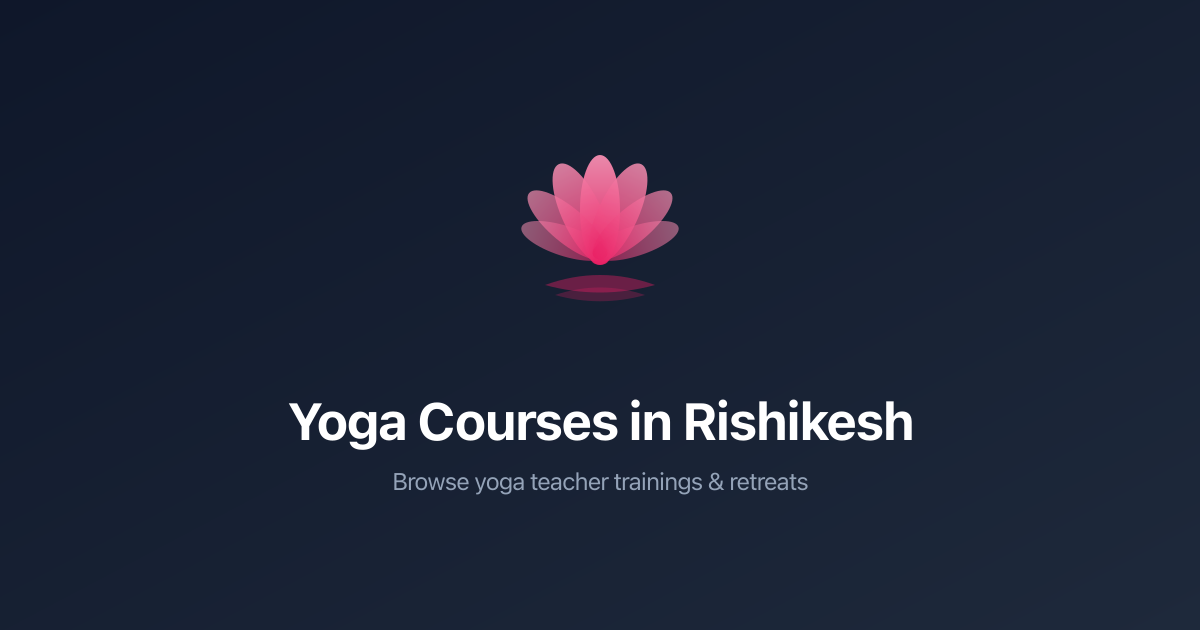
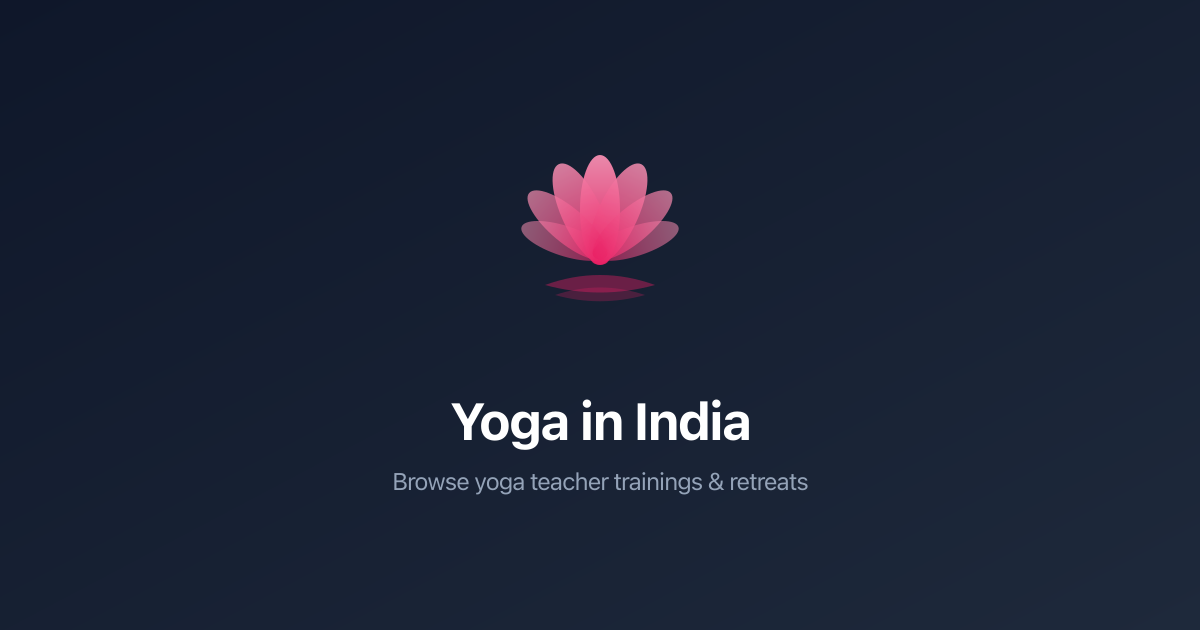
feat: add per-location social previews for Rishikesh and Dharamshala
Each location page now has its own OG title ("Yoga in Rishikesh" /
"Yoga in Dharamshala") and dedicated OG image instead of always
showing "Yoga Courses in Rishikesh".

Changed region(s): [[0.2467, 0.6333, 0.7708, 0.7238]]

diff --git a/scripts/generate-assets.ts b/scripts/generate-assets.ts
@@ -34,7 +34,7 @@ function lotusIconSvg(size: number): string {
 </svg>`
 }
 
-function ogImageSvg(): string {
+function ogImageSvg(location: string): string {
   // Embed the lotus inline at a fixed position, add title text
   return `<svg xmlns="http://www.w3.org/2000/svg" width="1200" height="630" viewBox="0 0 1200 630">
   <defs>
@@ -62,7 +62,7 @@ function ogImageSvg(): string {
     <path d="M 32 72 Q 50 66 68 72 Q 50 77 32 72 Z" fill="#E91E63" opacity="0.25"/>
   </g>
   <!-- Title text -->
-  <text x="600" y="440" text-anchor="middle" font-family="system-ui, sans-serif" font-size="52" font-weight="700" fill="white">Yoga Courses in Rishikesh</text>
+  <text x="600" y="440" text-anchor="middle" font-family="system-ui, sans-serif" font-size="52" font-weight="700" fill="white">Yoga in ${location}</text>
   <!-- Subtitle -->
   <text x="600" y="490" text-anchor="middle" font-family="system-ui, sans-serif" font-size="24" fill="#94a3b8">Browse yoga teacher trainings &amp; retreats</text>
 </svg>`
@@ -124,10 +124,20 @@ async function main() {
   writeFileSync(join(publicDir, "favicon.svg"), svgContent)
   console.log("✓ favicon.svg")
 
-  // Generate OG image
-  const ogSvg = ogImageSvg()
-  const ogPng = await sharp(Buffer.from(ogSvg)).png().toBuffer()
-  writeFileSync(join(publicDir, "og-image.png"), ogPng)
+  // Generate per-location OG images
+  const locations = ["Rishikesh", "Dharamshala"]
+  for (const location of locations) {
+    const ogSvg = ogImageSvg(location)
+    const ogPng = await sharp(Buffer.from(ogSvg)).png().toBuffer()
+    const slug = location.toLowerCase()
+    writeFileSync(join(publicDir, `og-${slug}.png`), ogPng)
+    console.log(`✓ og-${slug}.png (1200x630)`)
+  }
+
+  // Generate generic fallback OG image
+  const ogFallbackSvg = ogImageSvg("India")
+  const ogFallbackPng = await sharp(Buffer.from(ogFallbackSvg)).png().toBuffer()
+  writeFileSync(join(publicDir, "og-image.png"), ogFallbackPng)
   console.log("✓ og-image.png (1200x630)")
 
   console.log("\nAll assets generated in public/")

diff --git a/src/app/[location]/layout.tsx b/src/app/[location]/layout.tsx
@@ -1,4 +1,5 @@
 import { notFound } from "next/navigation"
+import type { Metadata } from "next"
 import type { Location } from "@/data/types"
 import { LocationHeader } from "./location-header"
 
@@ -12,6 +13,26 @@ export function generateStaticParams() {
 }
 
 export const dynamicParams = false
+
+export async function generateMetadata({
+  params,
+}: {
+  params: Promise<{ location: string }>
+}): Promise<Metadata> {
+  const { location } = await params
+  const locationName = VALID_LOCATIONS[location]
+  if (!locationName) return {}
+
+  return {
+    title: `Yoga in ${locationName}`,
+    description: `Browse yoga teacher trainings and retreats in ${locationName}, India`,
+    openGraph: {
+      title: `Yoga in ${locationName}`,
+      description: `Browse yoga teacher trainings and retreats in ${locationName}, India`,
+      images: [{ url: `/og-${location}.png`, width: 1200, height: 630 }],
+    },
+  }
+}
 
 export default async function LocationLayout({
   children,

diff --git a/src/app/layout.tsx b/src/app/layout.tsx
@@ -14,8 +14,8 @@ const geistMono = Geist_Mono({
 });
 
 export const metadata: Metadata = {
-  title: "Yoga Courses in Rishikesh",
-  description: "Browse yoga teacher trainings and retreats in Rishikesh, India",
+  title: "Yoga in India",
+  description: "Browse yoga teacher trainings and retreats in India",
   icons: {
     icon: [
       { url: "/favicon.svg", type: "image/svg+xml" },
